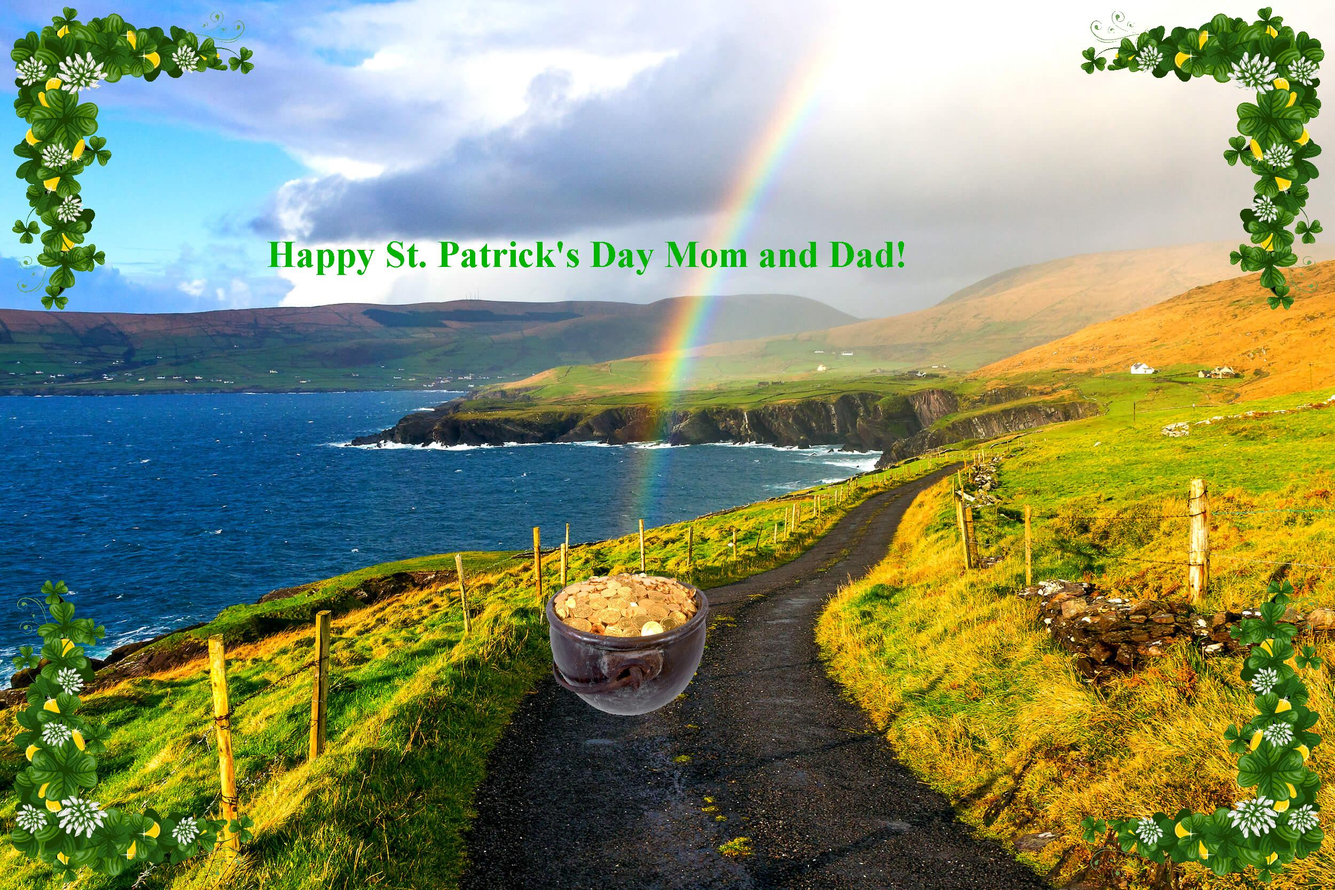
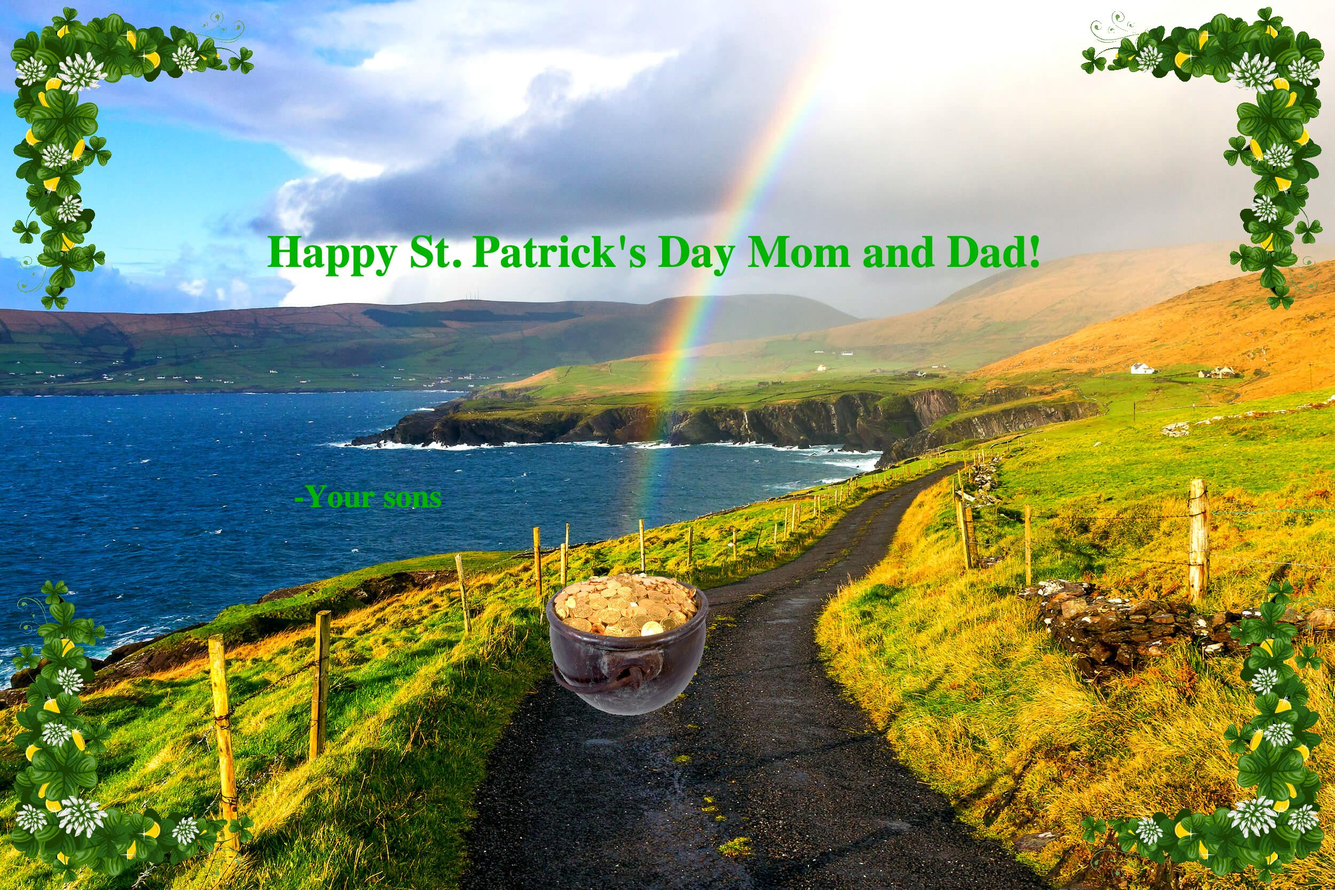
Fixed setMediaPathToCurrentDir() by analyzing directory to see platform. Then adjusted it to allow for same file IO on Unix and Windows. Currently working.

Changed region(s): [[0.1872, 0.2496, 0.78, 0.3119], [0.2184, 0.5303, 0.3432, 0.5927]]

diff --git a/lab7.py b/lab7.py
@@ -14,12 +14,14 @@ def makeCard():
   card = pyCopyIgnoreColor(vertFlip(horiFlip(cornerDecor)), background, 2003, 1067, makeColor(255,0,0))
   card = pyCopyIgnoreColor(vertFlip(cornerDecor), background, 0, 1067, makeColor(255,0,0))
   
-  textStyle = makeStyle(serif, bold, 70)
+  textStyle = makeStyle(serif, bold, 85)
   addTextWithStyle(card, 500, 500, "Happy St. Patrick's Day Mom and Dad!", textStyle, makeColor(0, 180, 0))
-    
-  repaint(card)
-  
-  writePictureTo(card, getMediaPath() + "\card.jpg")
+  textStyle = makeStyle(serif, bold, 60)
+  addTextWithStyle(card, 550, 950, "-Your sons", textStyle, makeColor(0, 180, 0))
+      
+  #repaint(card)
+  print getMediaPath()
+  writePictureTo(card, getMediaPath() + "card.jpg")
 
 def pyCopyIgnoreColor(source, target, targetX, targetY, colorToIgnore):
   sWidth = getWidth(source)
@@ -40,9 +42,11 @@ def pyCopyIgnoreColor(source, target, targetX, targetY, colorToIgnore):
   return target
   
 def setMediaPathToCurrentDir():
-  #os.path.abspath(__file__) returns the full path and filename of this file
-  #where as os.path.dirname() strips the filename off of the full path
-  setMediaPath(os.path.dirname(os.path.abspath(__file__)))
+  fullPathToFile = os.path.abspath(__file__)
+  if fullPathToFile.startswith('/'):
+    setMediaPath(os.path.dirname(fullPathToFile))
+  else:
+    setMediaPath(os.path.dirname(fullPathToFile) + '\\')
 
 def horiFlip(pic):
   #get dimensions of photo
@@ -87,4 +91,4 @@ def shrinkPic(pic):
       oldPix = getPixel(pic, x, y)
       newPix = getPixel(canvas, x/2, y/2)
       setColor(newPix, getColor(oldPix))
-  return canvas
+  return canvas          
